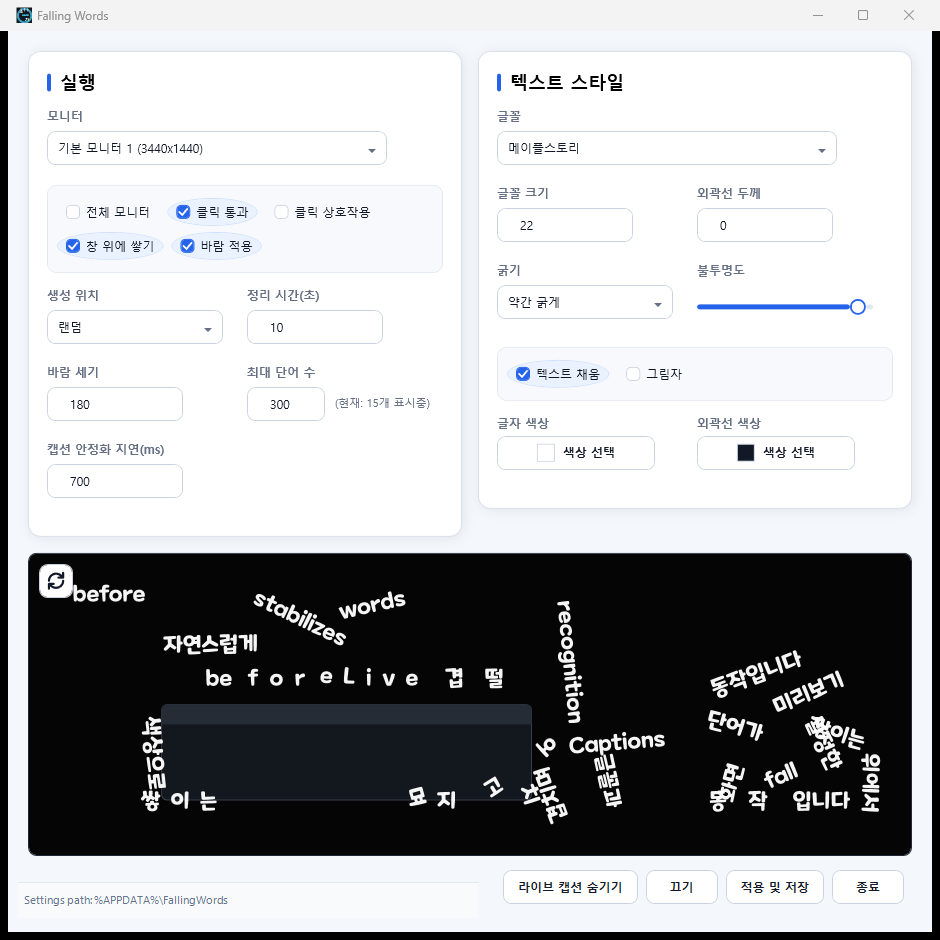
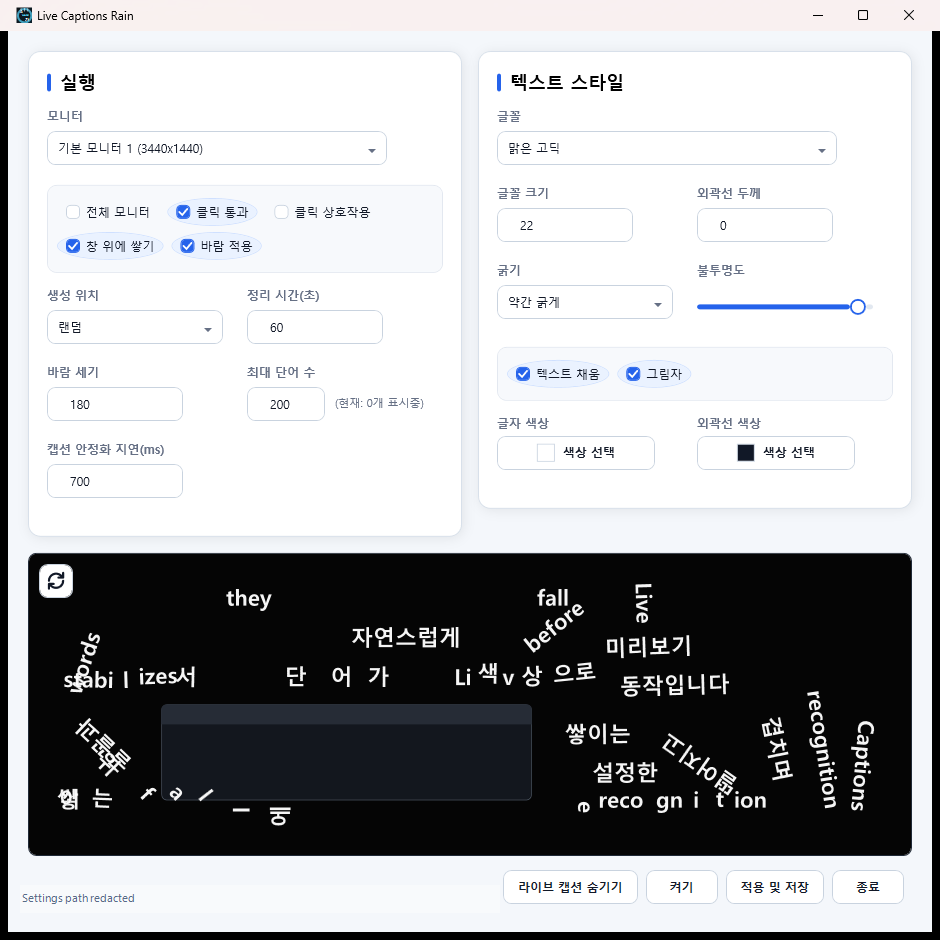
docs: rename project documentation to Live Captions Rain

diff --git a/README.md b/README.md
@@ -1,14 +1,14 @@
 [English](README.md) | [한국어](docs/readme/README.ko.md)
 
-# Falling Words
+# Live Captions Rain
 
-Falling Words is a Windows WPF app that turns Windows Live Captions into a physics-based word overlay. Caption words fall over the selected monitor, pile up on the screen floor, and can optionally stack on visible desktop window tops.
+Live Captions Rain is a Windows WPF app that turns Windows Live Captions into a physics-based word overlay. Caption words fall over the selected monitor, pile up on the screen floor, and can optionally stack on visible desktop window tops.
 
 ## Screenshots
 
 ### Settings
 
-![Falling Words settings window](docs/assets/screenshots/settings.png)
+![Live Captions Rain settings window](docs/assets/screenshots/settings.png)
 
 ## Features
 
@@ -34,8 +34,8 @@ Falling Words is a Windows WPF app that turns Windows Live Captions into a physi
 
 ## Quick Start
 
-1. Enable Windows Live Captions, or let Falling Words launch it.
-2. Launch `FallingWords.exe`.
+1. Enable Windows Live Captions, or let Live Captions Rain launch it.
+2. Launch `LiveCaptionsRain.exe`.
 3. Select the target monitor.
 4. Adjust text style and physics options.
 5. Press **Turn On**.
@@ -44,31 +44,31 @@ Falling Words is a Windows WPF app that turns Windows Live Captions into a physi
 Settings are stored at:
 
 ```text
-%APPDATA%\FallingWords\settings.json
+%APPDATA%\LiveCaptionsRain\settings.json
 ```
 
 ## Build
 
 ```powershell
 dotnet restore
-dotnet build FallingWords.sln
-dotnet test FallingWords.sln
-dotnet publish src\FallingWords\FallingWords.csproj -c Release -r win-x64 --self-contained false /p:PublishSingleFile=true /p:IncludeNativeLibrariesForSelfExtract=true
+dotnet build LiveCaptionsRain.sln
+dotnet test LiveCaptionsRain.sln
+dotnet publish src\LiveCaptionsRain\LiveCaptionsRain.csproj -c Release -r win-x64 --self-contained false /p:PublishSingleFile=true /p:IncludeNativeLibrariesForSelfExtract=true
 ```
 
 Generated `artifacts`, `bin`, and `obj` outputs should not be committed.
 
 ## Repository Layout
 
-- `src\FallingWords` - WPF app, settings window, tray integration, overlay, Live Captions adapter, Win32 interop, and rendering controls.
-- `src\FallingWords.Core` - caption processing, settings, localization, physics helpers, wind, window-platform resolution, and word fracture logic.
-- `tests\FallingWords.Tests` - unit tests for captions, settings, localization, physics, window filtering, wind, spawning, and text fracture.
+- `src\LiveCaptionsRain` - WPF app, settings window, tray integration, overlay, Live Captions adapter, Win32 interop, and rendering controls.
+- `src\LiveCaptionsRain.Core` - caption processing, settings, localization, physics helpers, wind, window-platform resolution, and word fracture logic.
+- `tests\LiveCaptionsRain.Tests` - unit tests for captions, settings, localization, physics, window filtering, wind, spawning, and text fracture.
 - `docs` - project documentation and screenshots.
 - `artifacts` - local generated builds and verification screenshots. This directory is ignored by git.
 
 ## Privacy
 
-Falling Words does not record audio and does not send caption text to a remote service. The app reads the text already displayed by Windows Live Captions. Settings are stored locally under `%APPDATA%\FallingWords`.
+Live Captions Rain does not record audio and does not send caption text to a remote service. The app reads the text already displayed by Windows Live Captions. Settings are stored locally under `%APPDATA%\LiveCaptionsRain`.
 
 ## Known Limitations
 

diff --git a/AGENT.md b/AGENT.md
@@ -2,7 +2,7 @@
 
 ## Project Scope
 
-Falling Words is a Windows-only .NET 8 WPF app. Keep the app focused on Windows Live Captions words falling into a physics overlay.
+Live Captions Rain is a Windows-only .NET 8 WPF app. Keep the app focused on Windows Live Captions words falling into a physics overlay.
 
 - Windows Live Captions is the only text source.
 - Do not add translation, LLM, transcript history, cloud API, analytics, or custom speech recognition unless explicitly requested.
@@ -36,22 +36,22 @@ Use the narrowest meaningful test while developing, then run the full suite befo
 Default commands:
 
 ```powershell
-dotnet build FallingWords.sln --no-restore
-dotnet test FallingWords.sln --no-restore
+dotnet build LiveCaptionsRain.sln --no-restore
+dotnet test LiveCaptionsRain.sln --no-restore
 ```
 
 If the environment uses the repo-local SDK path:
 
 ```powershell
 $dotnet = Join-Path $env:USERPROFILE '.dotnet-codex-sdk\dotnet.exe'
-& $dotnet build FallingWords.sln --no-restore
-& $dotnet test FallingWords.sln --no-restore
+& $dotnet build LiveCaptionsRain.sln --no-restore
+& $dotnet test LiveCaptionsRain.sln --no-restore
 ```
 
 Publish check:
 
 ```powershell
-dotnet publish src\FallingWords\FallingWords.csproj -c Release -r win-x64 --self-contained false /p:PublishSingleFile=true /p:IncludeNativeLibrariesForSelfExtract=true
+dotnet publish src\LiveCaptionsRain\LiveCaptionsRain.csproj -c Release -r win-x64 --self-contained false /p:PublishSingleFile=true /p:IncludeNativeLibrariesForSelfExtract=true
 ```
 
 Run publish verification when changes affect packaging, startup, app icons, project files, runtime dependencies, or release output.
@@ -60,7 +60,7 @@ Run publish verification when changes affect packaging, startup, app icons, proj
 
 Bug fixes require a regression test whenever practical.
 
-- Caption diffing, tokenization, queues, and stabilization belong in `tests\FallingWords.Tests`.
+- Caption diffing, tokenization, queues, and stabilization belong in `tests\LiveCaptionsRain.Tests`.
 - Window collision, visible top-edge resolution, monitor filtering, and fullscreen/top-edge exclusion need focused tests.
 - Settings defaults, persistence, migration behavior, and localization changes need tests.
 - Physics changes should be covered by deterministic unit tests when possible.

diff --git a/CONTRIBUTING.md b/CONTRIBUTING.md
@@ -1,6 +1,6 @@
 # Contributing
 
-Thanks for taking time to improve Falling Words.
+Thanks for taking time to improve Live Captions Rain.
 
 ## Branch Workflow
 
@@ -13,14 +13,14 @@ Keep pull requests small enough to review. Avoid mixing unrelated refactors, gen
 For code changes, run:
 
 ```powershell
-dotnet build FallingWords.sln
-dotnet test FallingWords.sln
+dotnet build LiveCaptionsRain.sln
+dotnet test LiveCaptionsRain.sln
 ```
 
 For release or packaging changes, also verify the published executable:
 
 ```powershell
-dotnet publish src\FallingWords\FallingWords.csproj -c Release -r win-x64 --self-contained false /p:PublishSingleFile=true /p:IncludeNativeLibrariesForSelfExtract=true
+dotnet publish src\LiveCaptionsRain\LiveCaptionsRain.csproj -c Release -r win-x64 --self-contained false /p:PublishSingleFile=true /p:IncludeNativeLibrariesForSelfExtract=true
 ```
 
 ## Development Notes

diff --git a/SECURITY.md b/SECURITY.md
@@ -28,4 +28,4 @@ Do not include local account names, full `%APPDATA%` paths, caption contents, ac
 
 ## Privacy Boundary
 
-Falling Words does not intentionally send caption text, settings, or local window metadata to a remote service. Reports about unexpected network access, unsafe file permissions, or accidental exposure of Live Captions text are in scope.
+Live Captions Rain does not intentionally send caption text, settings, or local window metadata to a remote service. Reports about unexpected network access, unsafe file permissions, or accidental exposure of Live Captions text are in scope.

diff --git a/CODE_OF_CONDUCT.md b/CODE_OF_CONDUCT.md
@@ -6,7 +6,7 @@ This project expects respectful, constructive participation.
 
 - Be clear and professional.
 - Assume good intent while staying precise about technical risk.
-- Keep discussions focused on Falling Words and user impact.
+- Keep discussions focused on Live Captions Rain and user impact.
 - Respect maintainers' time by providing reproduction steps, logs, and focused pull requests.
 - Redact private caption text, local paths, and identifying information from screenshots or logs.
 
